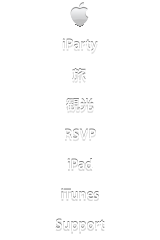
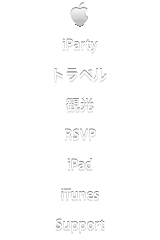
Japanese menu

Changed region(s): [[0.3438, 0.2625, 0.5625, 0.35], [0.5938, 0.2917, 0.6562, 0.35], [0.5625, 0.3208, 0.5938, 0.35]]

diff --git a/assets/navigation.css b/assets/navigation.css
@@ -73,11 +73,11 @@ v\:fill { behavior:url(#default#VML); }
 
 /* TEXT */
 #globalheader            #globalnav li            a span { display:block; width:100%; height:30px; margin:3px auto; background:url(globalnav_text.png) no-repeat 50% 0; _background-image:url(globalnav_text.gif); }
-.ja #globalheader            #globalnav li            a span { display:block; width:100%; height:30px; margin:3px auto; background:url(globalnav_text_ja.png) no-repeat 50% 0; _background-image:url(globalnav_text.gif); }
+.lang_ja #globalheader            #globalnav li            a span { display:block; width:100%; height:30px; margin:3px auto; background:url(globalnav_text_ja.png) no-repeat 50% 0; _background-image:url(globalnav_text.gif); }
 /*#globalheader.svg        #globalnav li            a span { background-image:url(globalnav_text.svg); }*/
 #globalheader.decelerate #globalnav li            a span,
 #globalheader.ios3       #globalnav li            a span { background-image:url(globalnav_text.png); }
-.ja #globalheader.ios3       #globalnav li            a span { background-image:url(globalnav_text_ja.png); }
+.lang_ja #globalheader.ios3       #globalnav li            a span { background-image:url(globalnav_text_ja.png); }
 #globalheader            #globalnav li#gn-apple   a span { background-position:50% 0; }
 #globalheader            #globalnav li#gn-store   a span { background-position:50% -30px; }
 #globalheader            #globalnav li#gn-mac     a span { background-position:50% -60px; }

diff --git a/_includes/head.html b/_includes/head.html
@@ -41,7 +41,7 @@
         <li id="gn-apple"><a href="/ja/"><span>KiMiwa</span></a></li>
         <li id="gn-store"><a href="/ja/iparty"><span>iParty</span></a></li>
         <li id="gn-iphone"><a href="/ja/rsvp"><span>RSVP</span></a></li>
-        <li id="gn-mac"><a href="/ja/travel"><span>Travel</span></a></li>
+        <li id="gn-mac"><a href="/ja/travel"><span>トラベル</span></a></li>
         <li id="gn-ipod"><a href="/ja/sightseeing"><span>Sightseeing</span></a></li>
       {% else %}
         <li id="gn-apple"><a href="/index"><span>KiMiwa</span></a></li>
